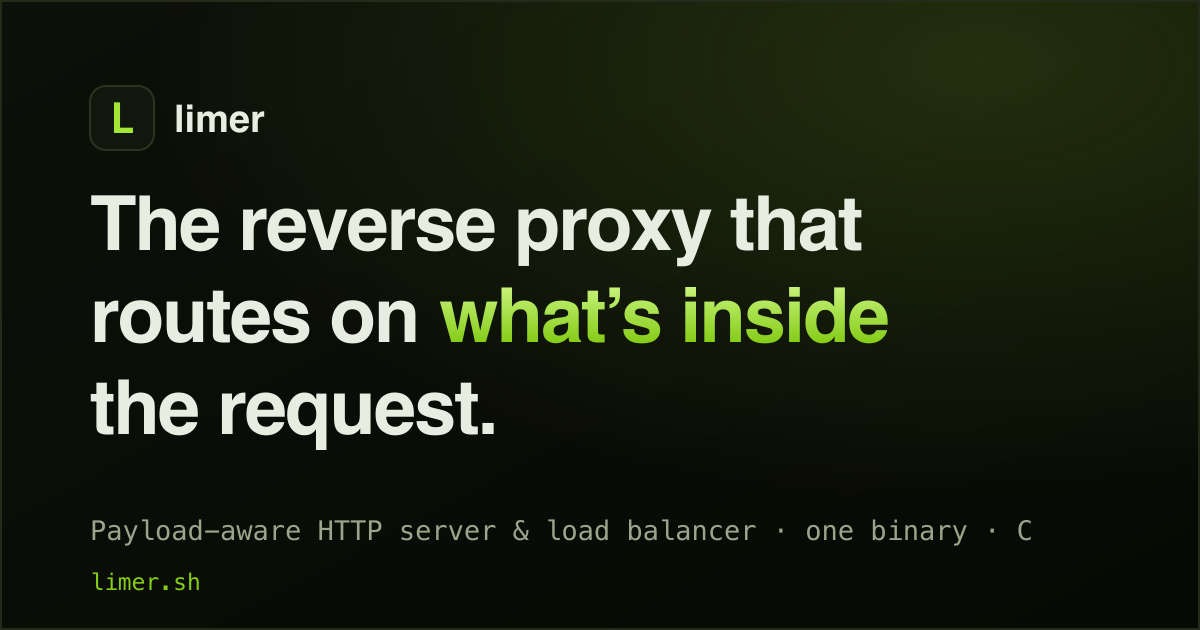
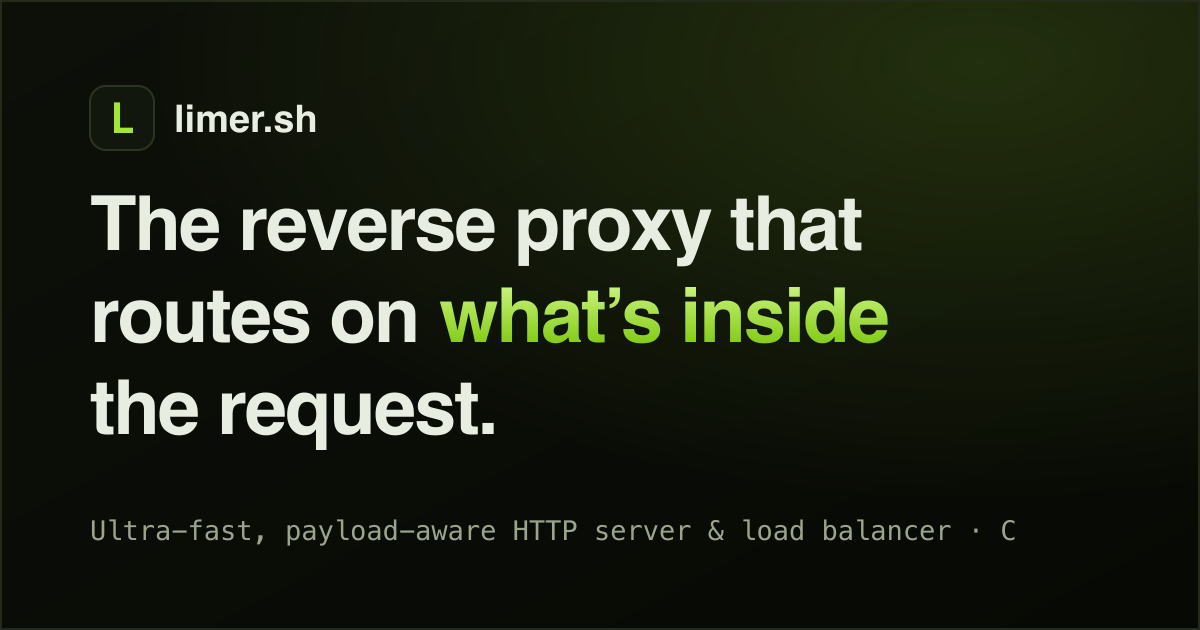
Brand as limer.sh and lead with ultra-fast
Use limer.sh as the display name across the landing page, README and user
guide (keeping the limer binary, Limerfile and repo paths); update the OG
image wordmark; and foreground "ultra-fast HTTP server" in titles, meta,
hero and intros.

diff --git a/site/index.html b/site/index.html
@@ -3,33 +3,33 @@
 <head>
 <meta charset="utf-8">
 <meta name="viewport" content="width=device-width, initial-scale=1">
-<title>Limer — payload-aware HTTP server &amp; load balancer</title>
-<meta name="description" content="Limer is a small, fast HTTP server and load balancer in C that routes and balances on what is inside the request — JSON fields, form fields, headers, cookies, the body. One binary, a readable Limerfile, automatic HTTPS, HTTP/2 and gRPC.">
-<meta name="keywords" content="reverse proxy, load balancer, HTTP server, payload routing, JSON routing, Caddy alternative, automatic HTTPS, HTTP/2, gRPC proxy, rate limiting, C">
-<meta name="author" content="limer">
+<title>limer.sh — ultra-fast, payload-aware HTTP server &amp; load balancer</title>
+<meta name="description" content="limer.sh is an ultra-fast HTTP server and load balancer in C that routes and balances on what is inside the request — JSON fields, form fields, headers, cookies, the body. One binary, a readable Limerfile, automatic HTTPS, HTTP/2 and gRPC.">
+<meta name="keywords" content="ultra-fast HTTP server, reverse proxy, load balancer, payload routing, JSON routing, Caddy alternative, automatic HTTPS, HTTP/2, gRPC proxy, rate limiting, C">
+<meta name="author" content="limer.sh">
 <meta name="robots" content="index, follow, max-image-preview:large, max-snippet:-1">
 <meta name="theme-color" content="#0b0d09">
 <link rel="canonical" href="https://limer.sh/">
 
 <!-- Open Graph -->
-<meta property="og:site_name" content="Limer">
-<meta property="og:title" content="Limer — the reverse proxy that routes on what's inside the request">
-<meta property="og:description" content="A small, fast HTTP server and load balancer that distributes traffic by JSON fields, form fields, headers, cookies or the body. One binary, automatic HTTPS, HTTP/2 and gRPC.">
+<meta property="og:site_name" content="limer.sh">
+<meta property="og:title" content="limer.sh — the reverse proxy that routes on what's inside the request">
+<meta property="og:description" content="An ultra-fast HTTP server and load balancer that distributes traffic by JSON fields, form fields, headers, cookies or the body. One binary, automatic HTTPS, HTTP/2 and gRPC.">
 <meta property="og:type" content="website">
 <meta property="og:url" content="https://limer.sh/">
 <meta property="og:image" content="https://limer.sh/og.png">
 <meta property="og:image:type" content="image/png">
 <meta property="og:image:width" content="1200">
 <meta property="og:image:height" content="630">
-<meta property="og:image:alt" content="Limer — payload-aware HTTP server and load balancer">
+<meta property="og:image:alt" content="limer.sh — payload-aware HTTP server and load balancer">
 <meta property="og:locale" content="en_US">
 
 <!-- Twitter -->
 <meta name="twitter:card" content="summary_large_image">
-<meta name="twitter:title" content="Limer — routes on what's inside the request">
-<meta name="twitter:description" content="A small, fast, payload-aware HTTP server and load balancer in C. One binary, automatic HTTPS, HTTP/2 and gRPC.">
+<meta name="twitter:title" content="limer.sh — routes on what's inside the request">
+<meta name="twitter:description" content="An ultra-fast, payload-aware HTTP server and load balancer in C. One binary, automatic HTTPS, HTTP/2 and gRPC.">
 <meta name="twitter:image" content="https://limer.sh/og.png">
-<meta name="twitter:image:alt" content="Limer — payload-aware HTTP server and load balancer">
+<meta name="twitter:image:alt" content="limer.sh — payload-aware HTTP server and load balancer">
 
 <!-- Structured data -->
 <script type="application/ld+json">
@@ -38,10 +38,10 @@
   "@graph": [
     {
       "@type": "SoftwareApplication",
-      "name": "Limer",
+      "name": "limer.sh",
       "applicationCategory": "DeveloperApplication",
       "operatingSystem": "Linux",
-      "description": "A small, fast HTTP server and load balancer written in C with payload-based request distribution: it routes and balances on JSON fields, form fields, body regexes, headers, cookies, the path or the client address. One binary, a readable Limerfile, automatic HTTPS, HTTP/2 and gRPC.",
+      "description": "An ultra-fast HTTP server and load balancer written in C with payload-based request distribution: it routes and balances on JSON fields, form fields, body regexes, headers, cookies, the path or the client address. One binary, a readable Limerfile, automatic HTTPS, HTTP/2 and gRPC.",
       "url": "https://limer.sh/",
       "image": "https://limer.sh/og.png",
       "softwareVersion": "0.1.0",
@@ -52,9 +52,9 @@
     },
     {
       "@type": "WebSite",
-      "name": "Limer",
+      "name": "limer.sh",
       "url": "https://limer.sh/",
-      "publisher": { "@type": "Organization", "name": "Limer", "url": "https://limer.sh/" }
+      "publisher": { "@type": "Organization", "name": "limer.sh", "url": "https://limer.sh/" }
     }
   ]
 }
@@ -237,7 +237,7 @@
 
 <nav>
   <div class="wrap nav-inner">
-    <a class="brand" href="#top"><span class="mark">L</span>limer</a>
+    <a class="brand" href="#top"><span class="mark">L</span>limer.sh</a>
     <div class="nav-links">
       <a class="nav-hide" href="#routing">Routing</a>
       <a class="nav-hide" href="#features">Features</a>
@@ -252,7 +252,7 @@
   <div class="wrap">
     <span class="eyebrow"><span class="dot"></span>One binary · written in C · Caddy-style config</span>
     <h1>The reverse proxy that<br>routes on <span class="accent">what&rsquo;s inside</span><br>the request.</h1>
-    <p class="lede">Limer is a small, fast HTTP server and load balancer that distributes traffic by
+    <p class="lede">limer.sh is an ultra-fast HTTP server and load balancer that distributes traffic by
       <b>JSON fields, form fields, body regexes, headers, cookies, the path, or the client address</b> —
       not just the URL. One binary, a readable <b>Limerfile</b>, automatic HTTPS, HTTP/2 and gRPC.</p>
 
@@ -295,7 +295,7 @@
     <div class="prose">
       <div class="kicker">Payload-based distribution</div>
       <h2>Balance on the request, not just the URL.</h2>
-      <p>Most proxies can only see the method and path. Limer looks <b>inside</b> the request and
+      <p>Most proxies can only see the method and path. limer.sh looks <b>inside</b> the request and
         picks a handler or an upstream from its contents. <code style="font-family:var(--mono);font-size:.85em;color:var(--lime-soft)">lb_policy hash json customer.id</code>
         sends every request for a customer to the same backend with weighted rendezvous hashing — so
         when an upstream leaves, only <em>its</em> keys get remapped.</p>
@@ -337,7 +337,7 @@
     <div class="sec-head">
       <div class="kicker">Everything in one binary</div>
       <h2>A full edge, nothing to assemble.</h2>
-      <p>Limer works like Caddy: automatic certificates, zero-downtime reloads, an admin API —
+      <p>limer.sh works like Caddy: automatic certificates, zero-downtime reloads, an admin API —
         plus the payload routing and balancing that Caddy lacks.</p>
     </div>
     <div class="grid">
@@ -383,7 +383,7 @@
     </div>
     <div class="tablewrap">
       <table>
-        <thead><tr><th>Scenario</th><th>Caddy v2.10</th><th>Limer</th><th>Ratio</th></tr></thead>
+        <thead><tr><th>Scenario</th><th>Caddy v2.10</th><th>limer.sh</th><th>Ratio</th></tr></thead>
         <tbody>
           <tr><td>1 core · GET round robin · 100 conns</td><td class="n caddy-v">9,200 req/s</td><td class="n limer-v">32,000 req/s</td><td class="ratio">3.5×</td></tr>
           <tr><td>1 core · POST 120 B JSON</td><td class="n caddy-v">8,600 req/s</td><td class="n limer-v">31,000 req/s</td><td class="ratio">3.6×</td></tr>
@@ -439,9 +439,9 @@ curl -X POST localhost:8080/echo \
   <div class="wrap">
     <div class="foot-inner">
       <div>
-        <a class="brand" href="#top"><span class="mark">L</span>limer</a>
-        <p style="margin-top:10px">A small, fast, payload-aware HTTP server &amp; load balancer in C.</p>
-        <p class="served">Served by <b>limer</b> itself · automatic HTTPS from Let&rsquo;s Encrypt</p>
+        <a class="brand" href="#top"><span class="mark">L</span>limer.sh</a>
+        <p style="margin-top:10px">An ultra-fast, payload-aware HTTP server &amp; load balancer in C.</p>
+        <p class="served">Served by <b>limer.sh</b> itself · automatic HTTPS from Let&rsquo;s Encrypt</p>
       </div>
       <div class="foot-links">
         <a href="https://github.com/limer-sh/limer">GitHub</a>

diff --git a/USERGUIDE.md b/USERGUIDE.md
@@ -1,6 +1,6 @@
-# Limer
+# limer.sh
 
-Limer is a small, fast HTTP server and load balancer written in C with
+limer.sh is an ultra-fast HTTP server and load balancer written in C with
 **payload-based request distribution**. It routes and balances requests on
 what is *inside* them: JSON fields, form fields, regexes over the body,
 headers, cookies, the path, or the client address. It works like
@@ -320,7 +320,7 @@ When the hash key is missing from a request, that request falls back to round
 robin. Unhealthy upstreams are skipped, so their keys spill over to the
 next-best upstream and return when the upstream recovers.
 
-Limer always forwards `X-Forwarded-For` (appending), `X-Forwarded-Proto`,
+limer.sh always forwards `X-Forwarded-For` (appending), `X-Forwarded-Proto`,
 `X-Forwarded-Host` and `X-Real-IP`, strips hop-by-hop headers, and keeps
 `Upgrade` requests working (WebSockets are tunnelled after a `101`).
 
@@ -437,7 +437,7 @@ verifies a presented certificate against `trusted_ca_cert_file`;
 sites sharing a listener each enforce their own. What the client presented is
 available as the `tls_client` matcher and the `{tls_client_*}` placeholders
 (subject, issuer, serial, fingerprint, verified, present). `tls_client_auth`
-makes Limer present a client certificate when proxying to an upstream.
+makes limer.sh present a client certificate when proxying to an upstream.
 
 ### Traffic splitting and mirroring
 
@@ -498,7 +498,7 @@ stored variant replaces it.
 A site whose address is a public hostname gets a certificate without any
 TLS configuration:
 
-1. Limer starts with a temporary self-signed certificate so the listener is
+1. limer.sh starts with a temporary self-signed certificate so the listener is
    up immediately, plus an http listener on `http_port` that redirects to
    https and answers ACME http-01 challenges.
 2. A certificate manager process registers an ACME account (`email`),
@@ -522,7 +522,7 @@ Challenge types (`acme_challenge` in the global block):
 |---|---|---|
 | `http-01` (default) | port 80 reachable | Answered by the http listener. |
 | `tls-alpn-01` | port 443 reachable | Answered on the https listener itself with the `acme-tls/1` ALPN protocol; use it when port 80 is closed. |
-| `dns-01` | `acme_dns_script` | Limer runs the script as `script present <domain> <txt-value>` before validation and `script cleanup <domain> <txt-value>` after, waits `acme_dns_propagation` (`30s`) in between, and the script creates or removes `_acme-challenge.<domain>` TXT records with your DNS provider's API. Required for wildcard names, which are always validated over dns-01 when a script is set. |
+| `dns-01` | `acme_dns_script` | limer.sh runs the script as `script present <domain> <txt-value>` before validation and `script cleanup <domain> <txt-value>` after, waits `acme_dns_propagation` (`30s`) in between, and the script creates or removes `_acme-challenge.<domain>` TXT records with your DNS provider's API. Required for wildcard names, which are always validated over dns-01 when a script is set. |
 
 ## Admin API
 
@@ -573,7 +573,7 @@ GitHub Actions workflow in `.github/workflows/ci.yml` runs both on every push.
 
 ## Security
 
-Limer sits in front of your application, so it is strict about HTTP framing
+limer.sh sits in front of your application, so it is strict about HTTP framing
 and defensive about everything a client or upstream can send. The security
 suite exercises each of these against a running instance, including a
 scripted hostile upstream and a wire-level fuzz round, and verifies the
@@ -613,7 +613,7 @@ proxy keeps serving after every attack.
 ## Performance
 
 `bench/run.sh` reproduces these numbers. It builds a minimal epoll backend
-(`bench/backend.c`), starts two of them, and drives Limer with
+(`bench/backend.c`), starts two of them, and drives limer.sh with
 [wrk](https://github.com/wg/wrk) (and h2load when installed) over loopback.
 Measured on a 4-vCPU Linux VM with wrk using 2 threads, 8-second runs,
 keep-alive on:
@@ -621,12 +621,12 @@ keep-alive on:
 | Scenario | Requests/s | p50 | p99 |
 |---|---|---|---|
 | wrk to backend directly (no proxy) | 152,000 | 0.58 ms | 2.0 ms |
-| Limer, 1 worker, GET round robin, 100 connections | 33,000 | 2.8 ms | 6.3 ms |
-| Limer, 1 worker, POST with JSON match + payload hash | 34,000 | 2.7 ms | 5.6 ms |
-| Limer, 1 worker, GET, 1000 connections | 27,000 | 36 ms | 66 ms |
-| Limer, 4 workers, GET round robin, 100 connections | 102,000 | 0.80 ms | 4.3 ms |
-| Limer, 4 workers, POST with JSON match + payload hash | 98,000 | 0.83 ms | 5.4 ms |
-| Limer, 4 workers, GET, 1000 connections | 116,000 | 7.4 ms | 19 ms |
+| limer.sh, 1 worker, GET round robin, 100 connections | 33,000 | 2.8 ms | 6.3 ms |
+| limer.sh, 1 worker, POST with JSON match + payload hash | 34,000 | 2.7 ms | 5.6 ms |
+| limer.sh, 1 worker, GET, 1000 connections | 27,000 | 36 ms | 66 ms |
+| limer.sh, 4 workers, GET round robin, 100 connections | 102,000 | 0.80 ms | 4.3 ms |
+| limer.sh, 4 workers, POST with JSON match + payload hash | 98,000 | 0.83 ms | 5.4 ms |
+| limer.sh, 4 workers, GET, 1000 connections | 116,000 | 7.4 ms | 19 ms |
 
 Over TLS with h2load (10 connections, 10 streams each): HTTP/2 serves about
 22,000 req/s per worker and 61,000 req/s with 4 workers; HTTP/1.1 over TLS
@@ -640,7 +640,7 @@ and an enlarged upstream keep-alive pool so Caddy is not limited by its
 default of 32 idle connections per host). Same VM, same wrk settings,
 Caddy v2.10.0:
 
-| Scenario | Caddy | Limer | Ratio |
+| Scenario | Caddy | limer.sh | Ratio |
 |---|---|---|---|
 | 1 core, GET round robin, 100 connections | 9,200 req/s, p50 9.7 ms | 32,000 req/s, p50 2.9 ms | 3.5x |
 | 1 core, POST 120 B JSON | 8,600 req/s, p50 10 ms | 31,000 req/s, p50 3.0 ms (with JSON match + hash) | 3.6x |

diff --git a/README.md b/README.md
@@ -1,9 +1,9 @@
-# Limer
+# limer.sh
 
-**A small, fast HTTP server and load balancer, written in C, that routes on
+**An ultra-fast HTTP server and load balancer, written in C, that routes on
 what's *inside* the request.**
 
-Most proxies only see the method and the path. Limer routes and balances on
+Most proxies only see the method and the path. limer.sh routes and balances on
 JSON fields, form fields, body regexes, headers, cookies, the query, the path,
 or the client address. It works like [Caddy](https://caddyserver.com): one
 binary, a readable `Limerfile`, automatic HTTPS, HTTP/2 and gRPC, zero-downtime
@@ -33,7 +33,7 @@ example.com {
 That site gets a certificate from Let's Encrypt automatically, serves HTTPS
 with HTTP/2 and HTTP/1.1, and redirects plain HTTP to HTTPS.
 
-## Why Limer
+## Why limer.sh
 
 - **Payload-based routing & balancing** — pick a handler or an upstream from
   the request body, with weighted rendezvous hashing so a key always lands on
